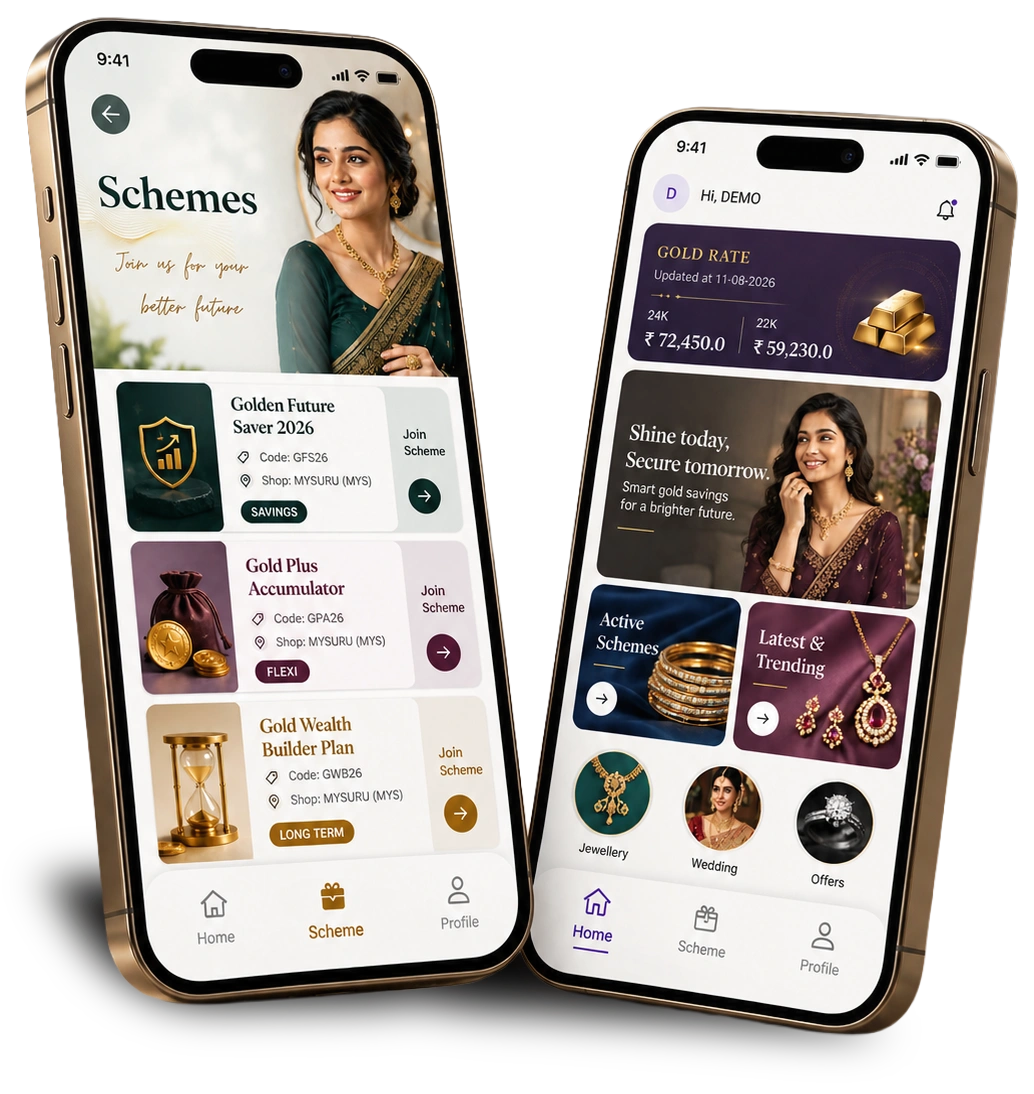
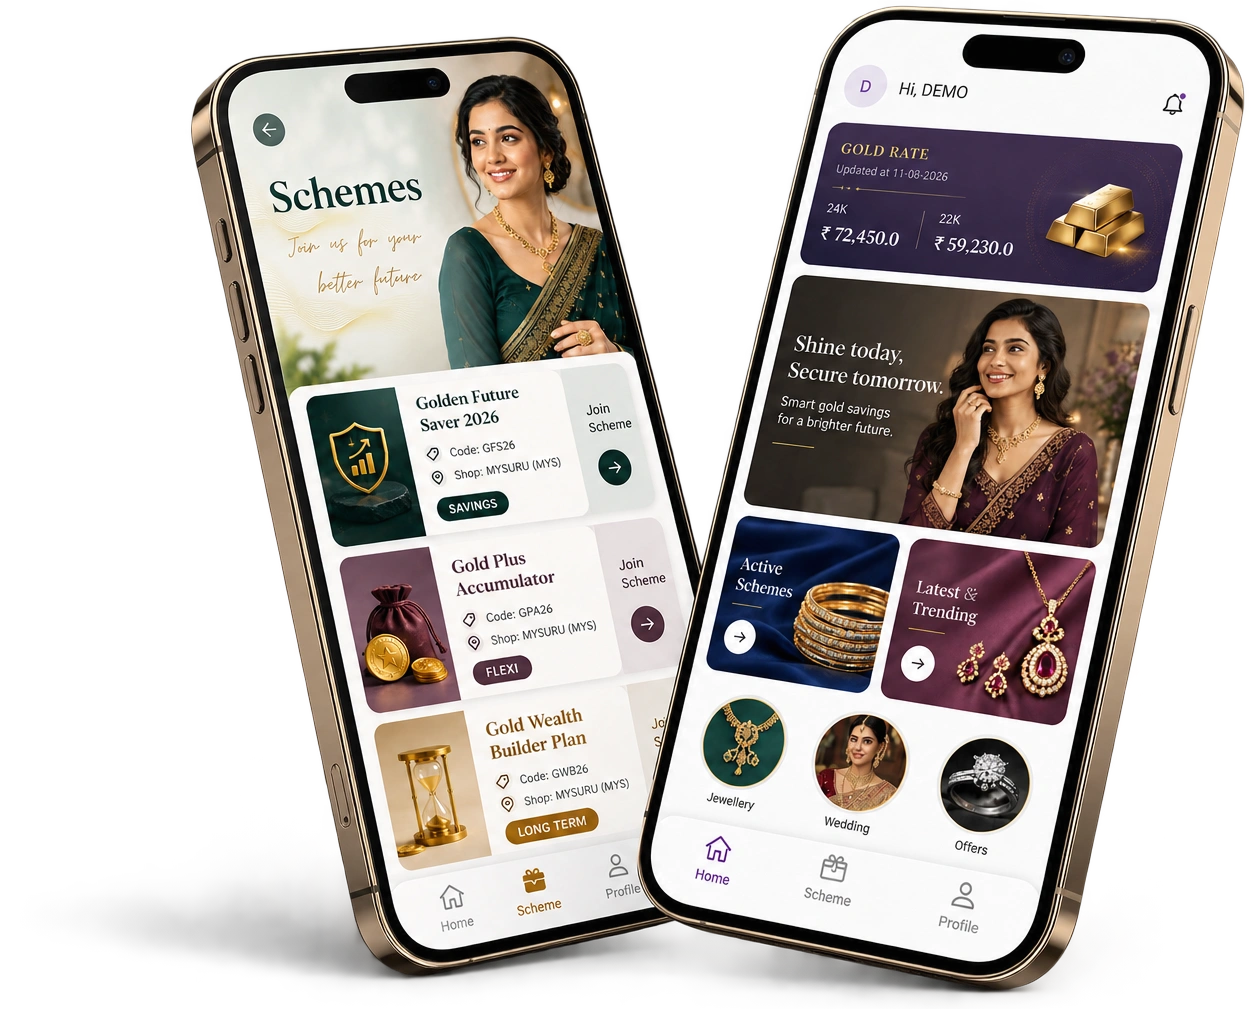
feat: add Platform, SchemeFeatures, and Service components along with product image assets

diff --git a/app/components/sections/Platform.tsx b/app/components/sections/Platform.tsx
@@ -2,6 +2,7 @@
 
 import React from 'react';
 import { motion } from 'framer-motion';
+import Button from '../common/Button';
 import '../styles/Section.css';
 
 export interface PlatformProps {
@@ -36,19 +37,21 @@ const Platform: React.FC<PlatformProps> = ({ className = '' }) => {
           </p>
 
           <div className="platform-actions">
-            <a
+            <Button
               href="#our-services"
+              pillColor="bg-[#A44B03]"
               onClick={(e) => {
-                const target = document.getElementById("our-services");
+                const target =
+                  document.getElementById("our-services") ||
+                  document.getElementById("services");
                 if (target) {
                   e.preventDefault();
                   target.scrollIntoView({ behavior: "smooth" });
                 }
               }}
-              className="platform-cta-btn"
             >
               Explore the Platform
-            </a>
+            </Button>
           </div>
         </motion.div>
       </div>

diff --git a/app/components/sections/Service.tsx b/app/components/sections/Service.tsx
@@ -46,8 +46,7 @@ const PRODUCTS: ServiceItem[] = [
     title: "EMPLOYEE & PAYROLL MANAGEMENT",
     description:
       "A Centralized System To Manage Employee Information, Attendance, Salary Processing, And Documentation Efficiently.",
-    image:
-      "https://images.unsplash.com/photo-1454165804606-c3d57bc86b40?auto=format&fit=crop&w=800&q=80",
+    image: "/products/enroll-payroll/enroll-management-system.webp",
     imageAlt: "Employee and Payroll Management System",
   },
   {
@@ -55,8 +54,7 @@ const PRODUCTS: ServiceItem[] = [
     title: "AUROWN",
     description:
       "An Application Designed Specifically For Jewellery Business Owners To Monitor And Track Business Operations, Sales, And Inventory From Anywhere.",
-    image:
-      "https://images.unsplash.com/photo-1551836022-d5d88e9218df?auto=format&fit=crop&w=800&q=80",
+    image: "/products/aurown/aurown-app-mockup.webp",
     imageAlt: "AUROWN Business Owners Tracking App",
   },
 ];

diff --git a/app/components/sections/SchemeFeatures.tsx b/app/components/sections/SchemeFeatures.tsx
@@ -83,10 +83,10 @@ export default function SchemeFeatures() {
               className="lg:col-span-6 xl:col-span-6 flex flex-col justify-center"
             >
               <h2 className="text-3xl sm:text-4xl md:text-5xl font-semibold tracking-tight text-stone-900 font-[var(--font-dm-sans)] leading-[1.12] mb-4">
-                Manage Jewellery Schemes,{" "}
+                <span className="block">Manage Jewellery Schemes,</span>
                 <span
                   style={{ fontFamily: "var(--font-cormorant-garamond), serif" }}
-                  className="italic font-normal text-[#A44B03] block sm:inline mt-1 sm:mt-0"
+                  className="italic font-normal text-[#A44B03] block mt-1"
                 >
                   Anytime, Anywhere.
                 </span>
